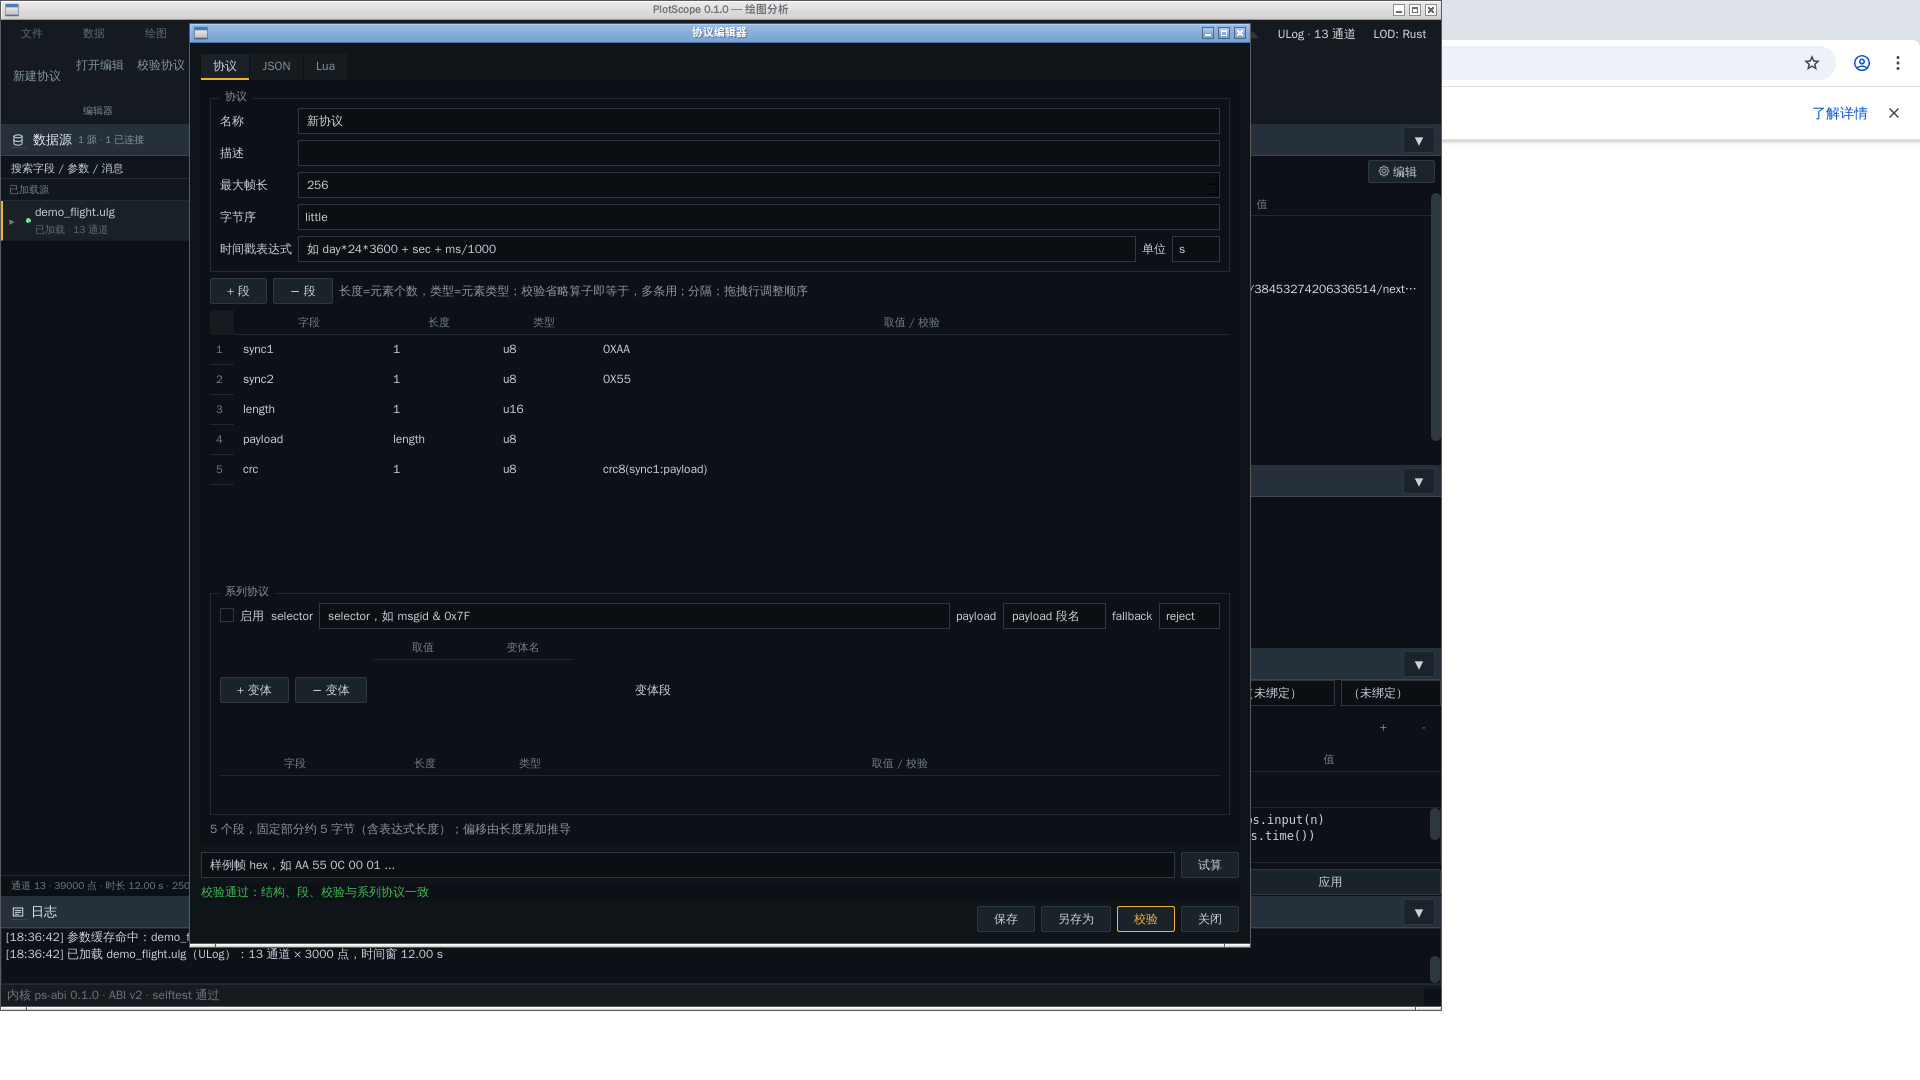
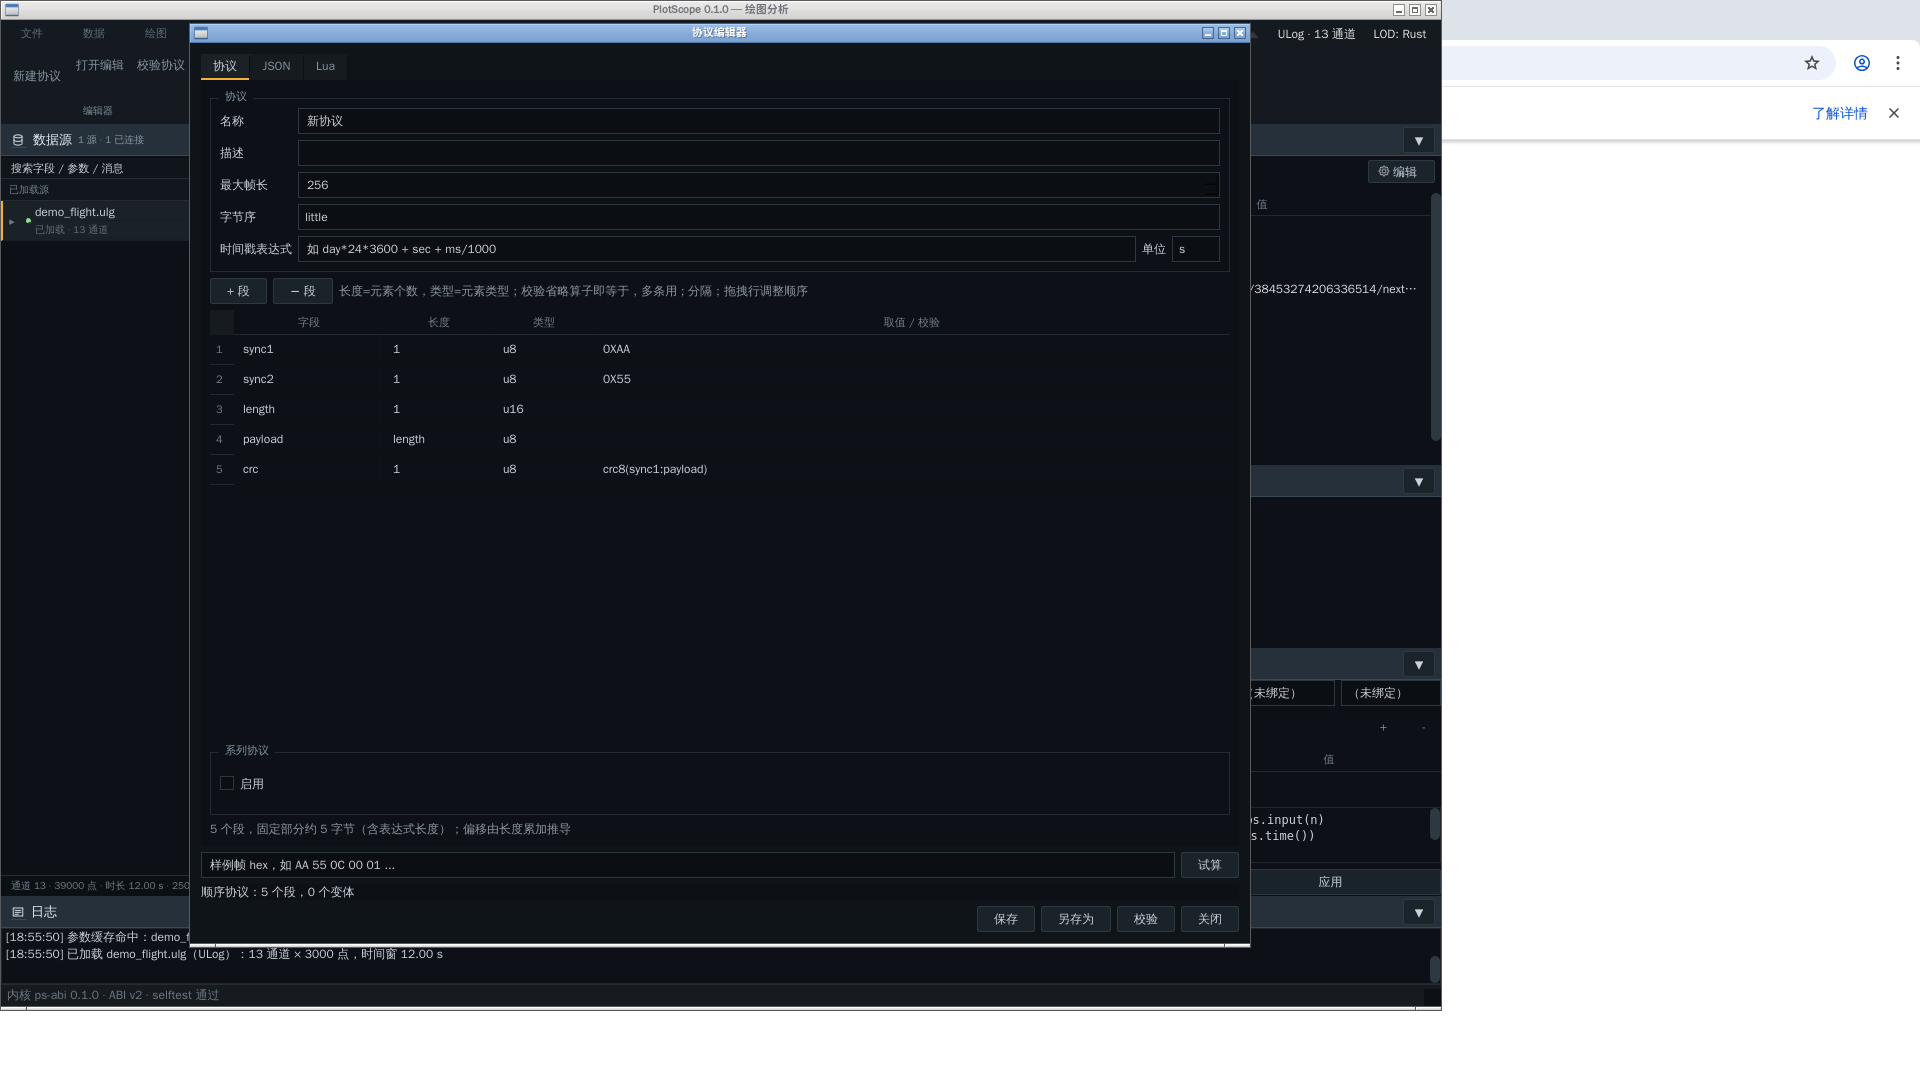
协议编辑器：系列区未启用时折叠

diff --git a/src/app/data_input/ProtocolEditorDialog.cpp b/src/app/data_input/ProtocolEditorDialog.cpp
@@ -199,29 +199,32 @@ ProtocolEditorDialog::ProtocolEditorDialog(const QString &path, QWidget *parent)
 
     auto *seriesBox = new QGroupBox(QStringLiteral("系列协议"), m_seqPage);
     auto *seriesLayout = new QVBoxLayout(seriesBox);
-    auto *seriesTop = new QHBoxLayout;
     m_seqSeries = new QCheckBox(QStringLiteral("启用"), seriesBox);
-    m_seqSelector = new QLineEdit(seriesBox);
+    seriesLayout->addWidget(m_seqSeries);
+    auto *seriesBody = new QWidget(seriesBox);
+    auto *bodyLayout = new QVBoxLayout(seriesBody);
+    bodyLayout->setContentsMargins(0, 0, 0, 0);
+    auto *seriesTop = new QHBoxLayout;
+    m_seqSelector = new QLineEdit(seriesBody);
     m_seqSelector->setPlaceholderText(QStringLiteral("selector，如 msgid & 0x7F"));
-    m_seqPayload = new QLineEdit(seriesBox);
+    m_seqPayload = new QLineEdit(seriesBody);
     m_seqPayload->setPlaceholderText(QStringLiteral("payload 段名"));
-    m_seqFallback = new QComboBox(seriesBox);
+    m_seqFallback = new QComboBox(seriesBody);
     m_seqFallback->addItems({QStringLiteral("reject"), QStringLiteral("raw")});
-    seriesTop->addWidget(m_seqSeries);
-    seriesTop->addWidget(new QLabel(QStringLiteral("selector"), seriesBox));
+    seriesTop->addWidget(new QLabel(QStringLiteral("selector"), seriesBody));
     seriesTop->addWidget(m_seqSelector, 1);
-    seriesTop->addWidget(new QLabel(QStringLiteral("payload"), seriesBox));
+    seriesTop->addWidget(new QLabel(QStringLiteral("payload"), seriesBody));
     seriesTop->addWidget(m_seqPayload);
-    seriesTop->addWidget(new QLabel(QStringLiteral("fallback"), seriesBox));
+    seriesTop->addWidget(new QLabel(QStringLiteral("fallback"), seriesBody));
     seriesTop->addWidget(m_seqFallback);
-    seriesLayout->addLayout(seriesTop);
+    bodyLayout->addLayout(seriesTop);
 
     auto *varTop = new QHBoxLayout;
-    auto *varAdd = new QPushButton(QStringLiteral("+ 变体"), seriesBox);
-    auto *varDel = new QPushButton(QStringLiteral("− 变体"), seriesBox);
+    auto *varAdd = new QPushButton(QStringLiteral("+ 变体"), seriesBody);
+    auto *varDel = new QPushButton(QStringLiteral("− 变体"), seriesBody);
     varAdd->setMaximumWidth(84);
     varDel->setMaximumWidth(84);
-    m_seqVariants = new QTableWidget(0, 2, seriesBox);
+    m_seqVariants = new QTableWidget(0, 2, seriesBody);
     m_seqVariants->setHorizontalHeaderLabels({QStringLiteral("取值"), QStringLiteral("变体名")});
     m_seqVariants->setMinimumWidth(230);
     m_seqVariants->setMaximumWidth(260);
@@ -230,11 +233,11 @@ ProtocolEditorDialog::ProtocolEditorDialog(const QString &path, QWidget *parent)
     varTop->addWidget(varAdd);
     varTop->addWidget(varDel);
     varTop->addWidget(m_seqVariants);
-    varTop->addWidget(new QLabel(QStringLiteral("变体段"), seriesBox));
+    varTop->addWidget(new QLabel(QStringLiteral("变体段"), seriesBody));
     varTop->addStretch(1);
-    seriesLayout->addLayout(varTop);
+    bodyLayout->addLayout(varTop);
 
-    m_seqVarFields = new ReorderTable(0, 4, seriesBox);
+    m_seqVarFields = new ReorderTable(0, 4, seriesBody);
     m_seqVarFields->setHorizontalHeaderLabels({QStringLiteral("字段"), QStringLiteral("长度"),
                                                QStringLiteral("类型"), QStringLiteral("取值 / 校验")});
     m_seqVarFields->horizontalHeader()->setStretchLastSection(true);
@@ -258,7 +261,14 @@ ProtocolEditorDialog::ProtocolEditorDialog(const QString &path, QWidget *parent)
         }
     };
     m_seqVarFields->setMinimumHeight(140);
-    seriesLayout->addWidget(m_seqVarFields, 1);
+    bodyLayout->addWidget(m_seqVarFields, 1);
+    seriesLayout->addWidget(seriesBody, 1);
+    auto syncSeriesBody = [=](bool on) {
+        seriesBody->setVisible(on);
+        seriesBox->setMaximumHeight(on ? QWIDGETSIZE_MAX : 72);
+    };
+    connect(m_seqSeries, &QCheckBox::toggled, this, syncSeriesBody);
+    syncSeriesBody(m_seqSeries->isChecked());
     seqLayout->addWidget(seriesBox, 1);
 
     m_seqPreview = new QLabel(m_seqPage);
